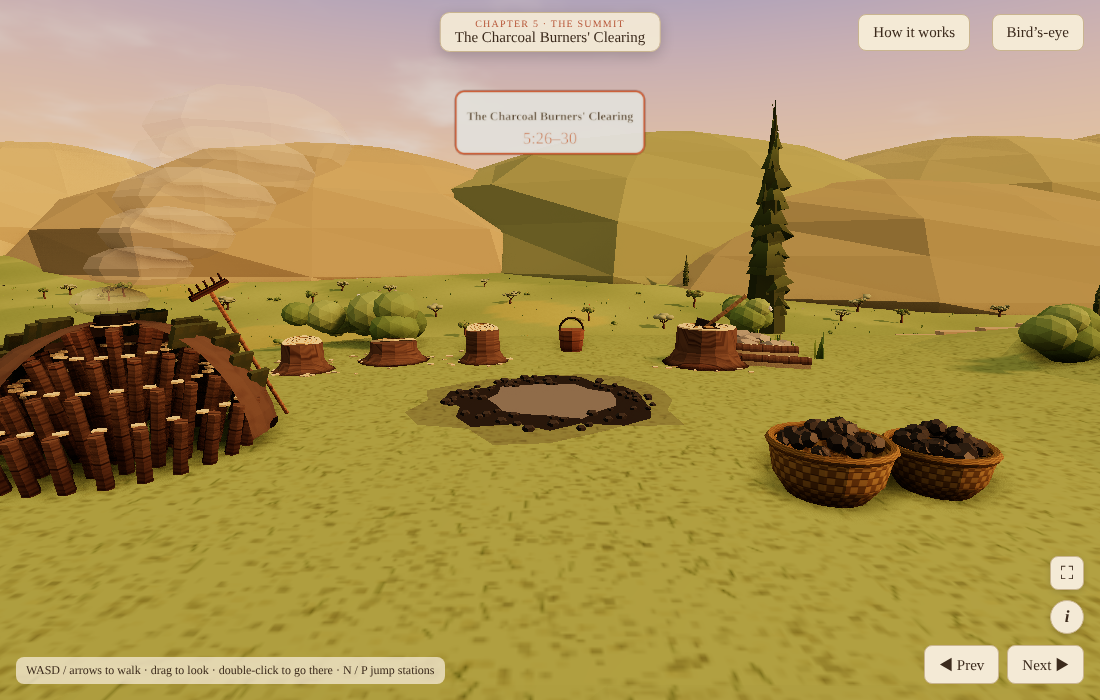
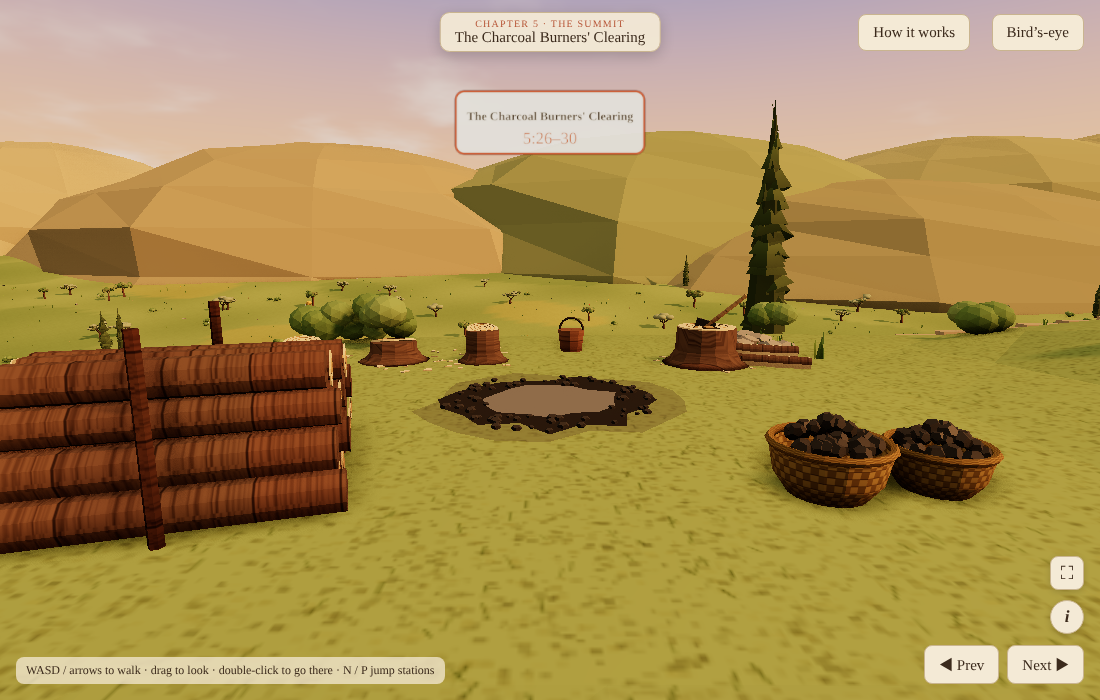
som-ltm: charcoal clearing spot 1 is a plain stack of cut logs (owner); new library model som-log-stack
Claude-Session: https://claude.ai/code/session_011GTaBjBmrRYMxR8CbFEKPF

diff --git a/som-ltm/world/mount.js b/som-ltm/world/mount.js
@@ -118,7 +118,7 @@ defBuilder('som.quarry', (r, { ch }) => { const F = roomFrame(r), h = 2.5, sp = 
 // ---- 5.6 THE CHARCOAL BURNERS' CLEARING (5:26–30): smoking mound · row of stumps · axe in a block · rush baskets of charcoal · ash ring ----
 defBuilder('som.charcoal', (r, { ch }) => { const F = roomFrame(r), h = 2.6, sp = SQ(h).map(([f, s]) => F.at(f, s)), out = [];
   // models from the shared library (ltm-engine/objects/som.js), rebuilt 2026-11-18
-  out.push(somAt(F, F.at(-h + .9, -h - 1.4), 'som-charcoal-mound', .6, .8));                 // 1: the smoking charcoal mound
+  out.push(somAt(F, F.at(-h, -h - .2), 'som-log-stack', Math.PI / 2 + .3));   // 1: a stack of cut logs (owner, 2026-11-18)                 // 1: the smoking charcoal mound
   out.push(somAt(F, F.at(h, -h), 'som-cut-stumps', .3));                                   // 2: the row of cut stumps
   out.push(somAt(F, sp[2], 'som-axe-stump', -.4));                                         // 3: the chopping stump, the axe in it
   out.push(somAt(F, sp[3], 'som-charcoal-baskets', .2));                                   // 4: rush baskets of charcoal

diff --git a/ltm-engine/objects/som.js b/ltm-engine/objects/som.js
@@ -260,4 +260,14 @@ def('som-scarecrow', 'Scarecrow in an old robe', g => {
   lathe(g, [[0, 0], [.48, 0], [.46, .04], [.2, .08], [.17, .27], [0, .3]], MM('somStrawHat', '#d8b860', TEX.wicker), 0, 2.12, 0, 14);   // a straw hat
   return 2.4; });
 
+
+def('som-log-stack', 'Stack of cut logs', g => {
+  const bark = MM('somBark2', '#7a6046', TEX.wood), cut = MM('somCutFace2', '#ecd29c'), ring = MM('somRing', '#c09a62');
+  const L = 2.2, rows = [6, 5, 4, 3];
+  rows.forEach((n, row) => { for (let k = 0; k < n; k++) { const r = R(.13, .16), x = (k - (n - 1) / 2) * .31 + R(-.02, .02), y = .15 + row * .27, z = R(-.06, .06);
+    cy(g, r, r, L + R(-.12, .12), 9, bark, x, y, z, Math.PI / 2);   // a log lying on the pile
+    for (const e of [-1, 1]) { const ez = z + e * (L / 2 + .005); cy(g, r * .96, r * .96, .01, 9, cut, x, y, ez, Math.PI / 2); add(new THREE.TorusGeometry(r * .5, .005, 3, 10), ring, x, y, ez + e * .006, g); } } });   // pale cut ends with growth rings
+  for (const s of [-1, 1]) cy(g, .045, .05, 1.4, 6, mWoodDk, s * 1.0, 0, 0);   // a stake at each end holding the pile
+  return 1.15; });
+
 }
